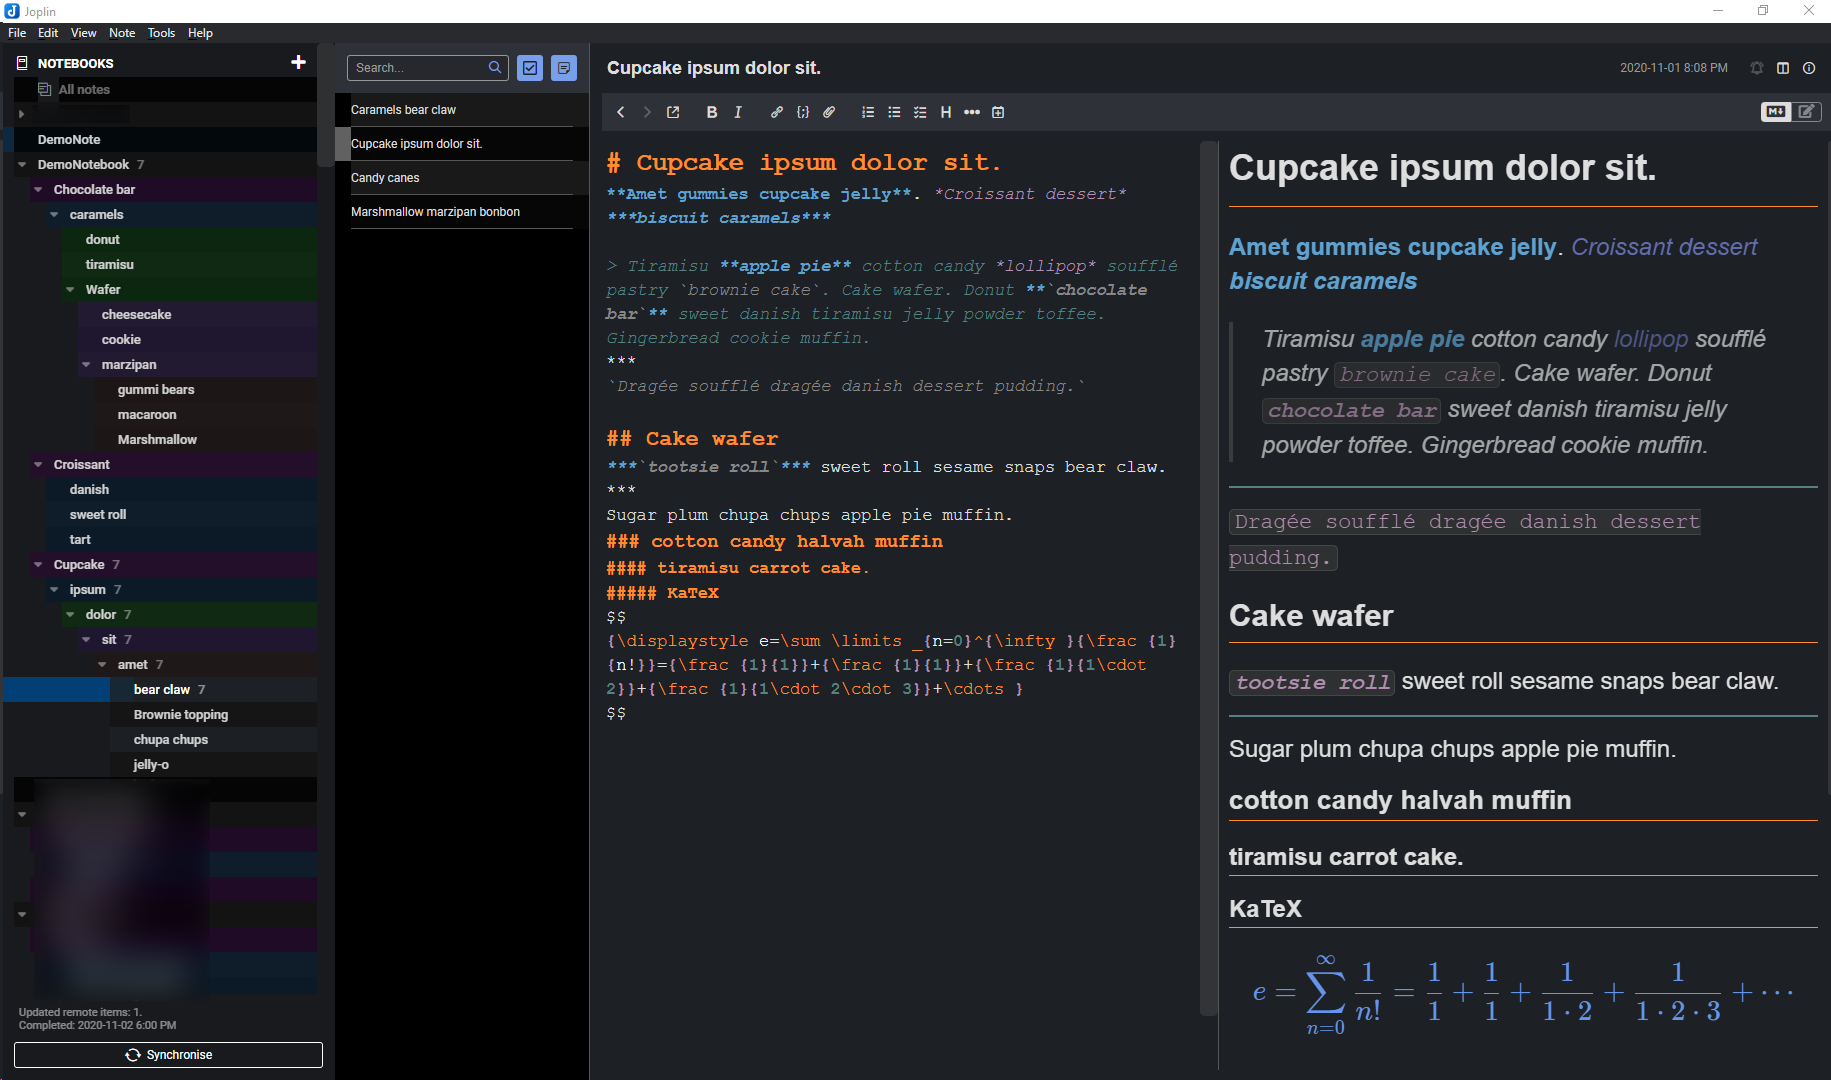
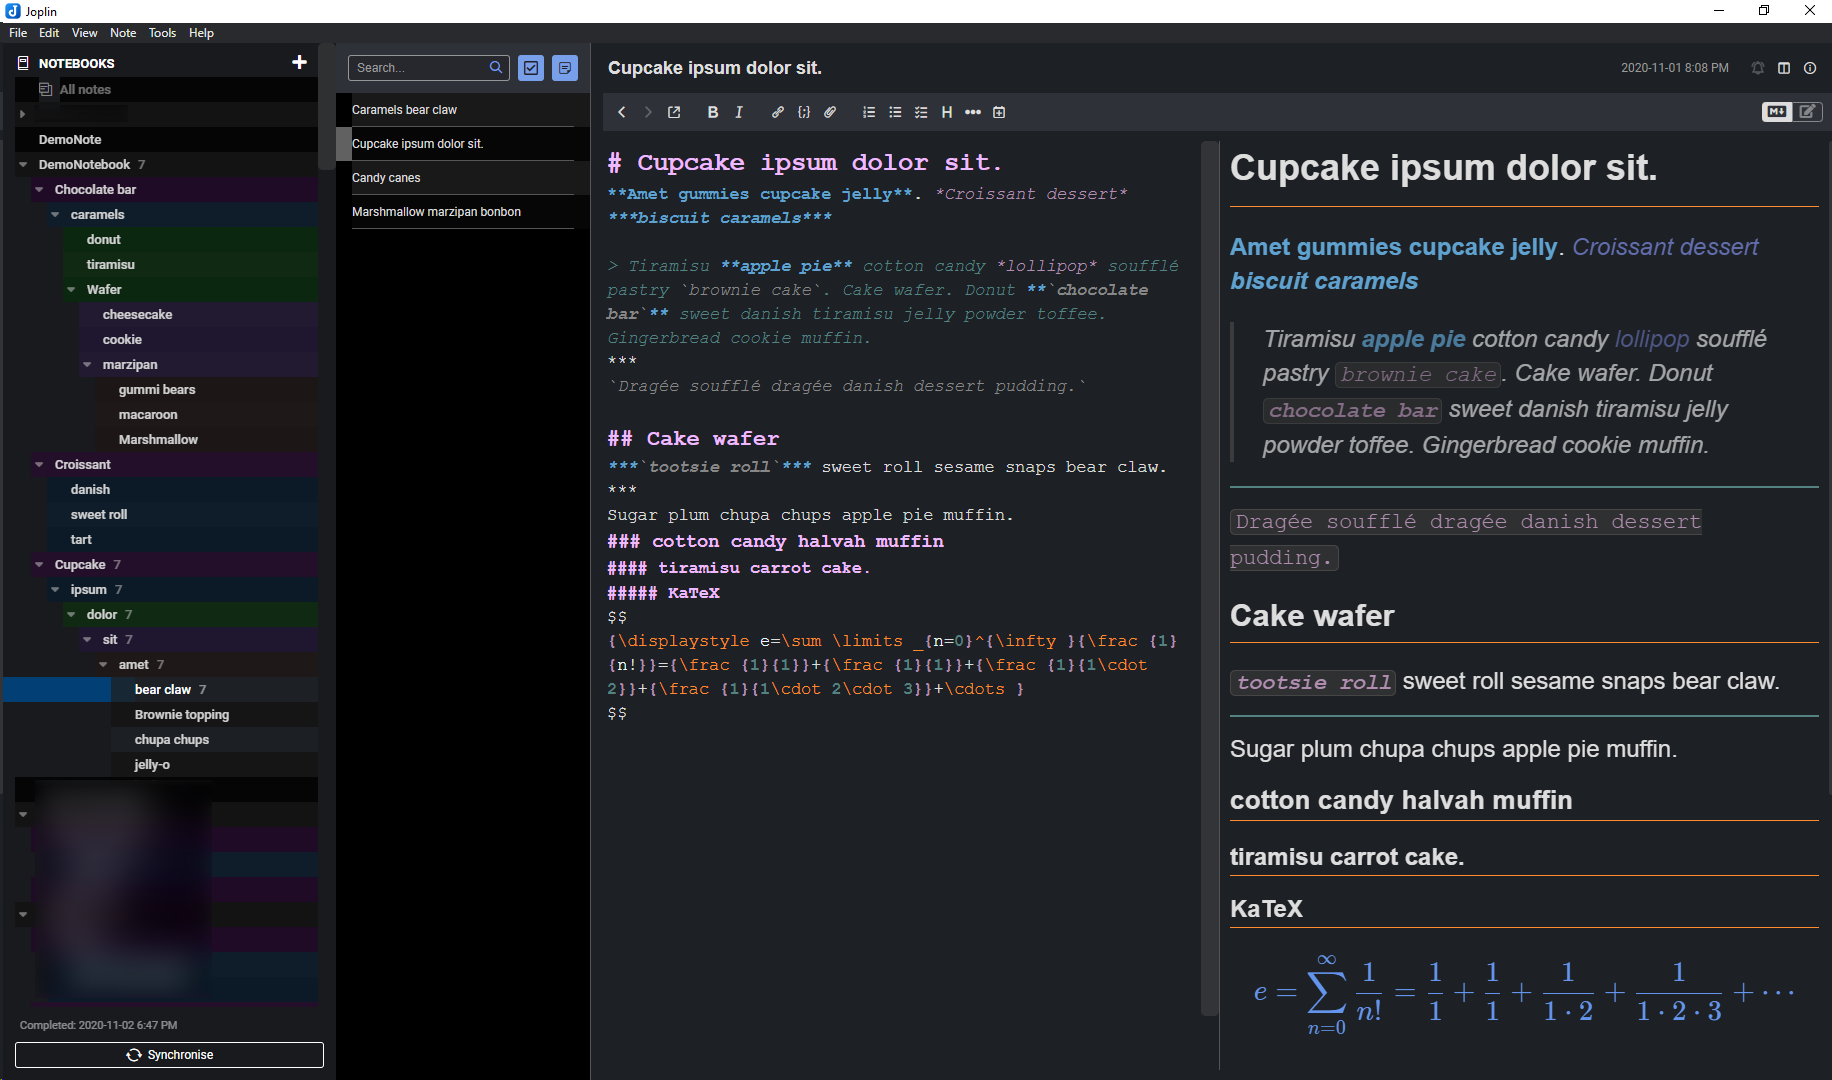
Update header from orange to light violet.

diff --git a/userchrome.css b/userchrome.css
@@ -26,7 +26,7 @@ div.CodeMirror.CodeMirror-wrap {
 
 /* colorize headers */
 .cm-header-1, .cm-header-2, .cm-header-3, .cm-header-4, .cm-header-5, .cm-header-6 {
-    color: #ff8c2f !important;
+    color: #eebaff !important;
 }
 
 /* colorize italics */
